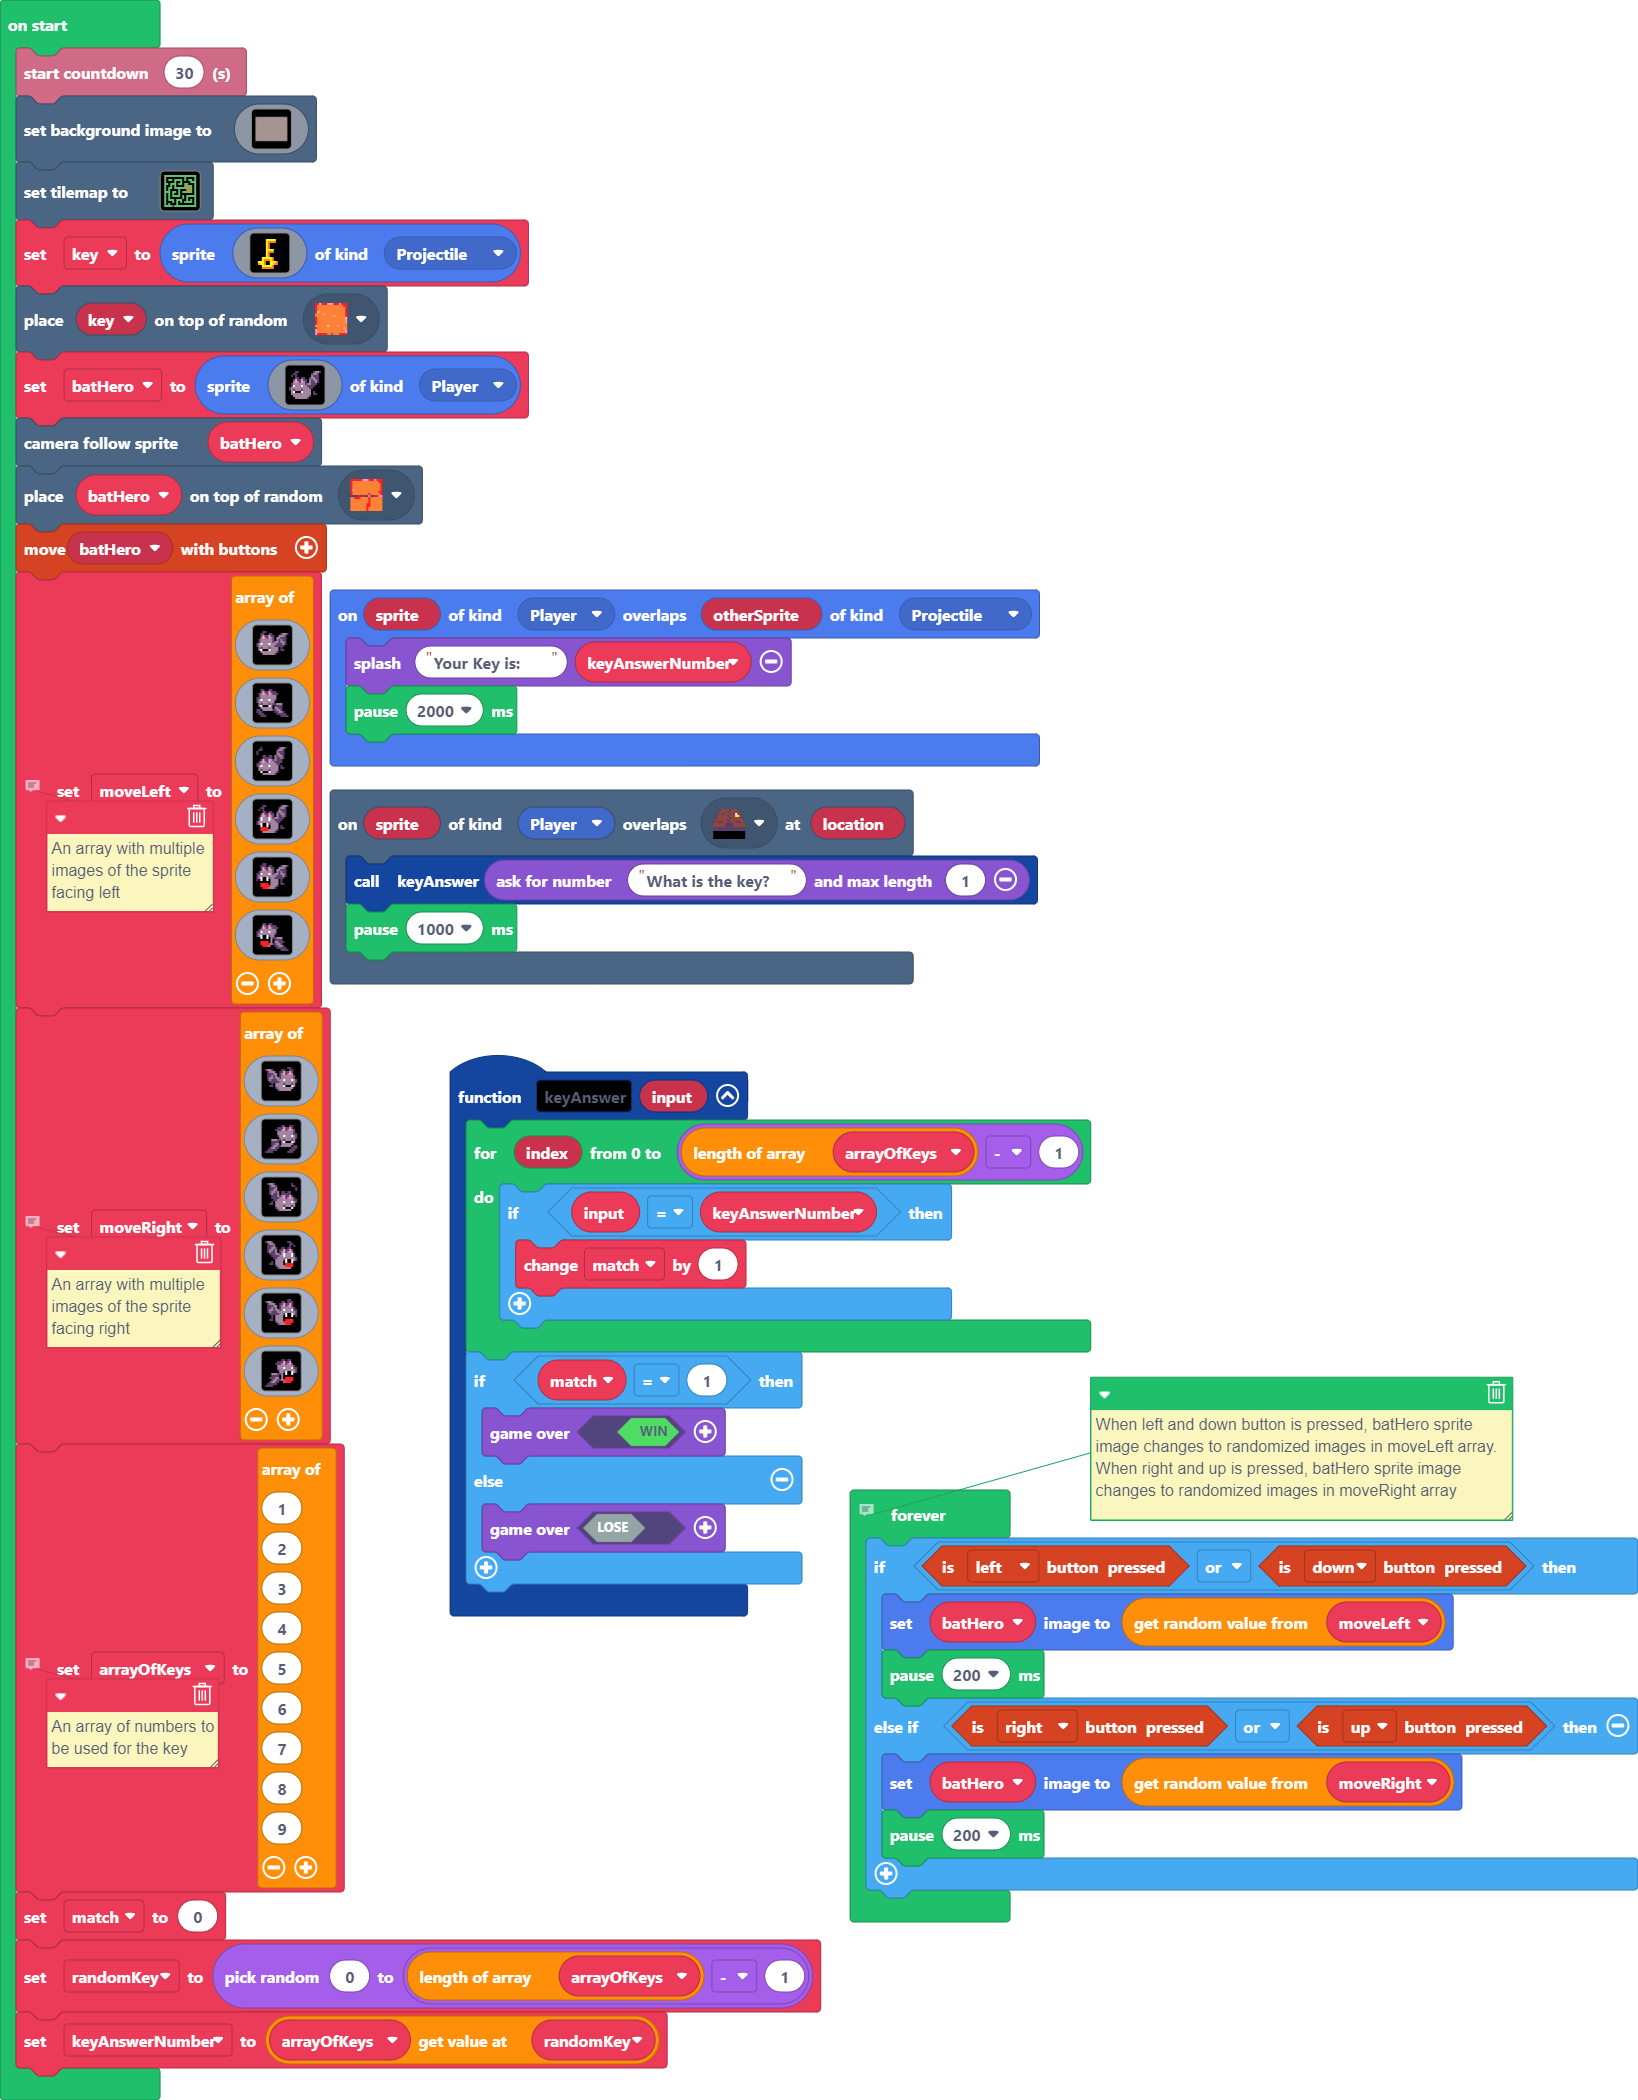
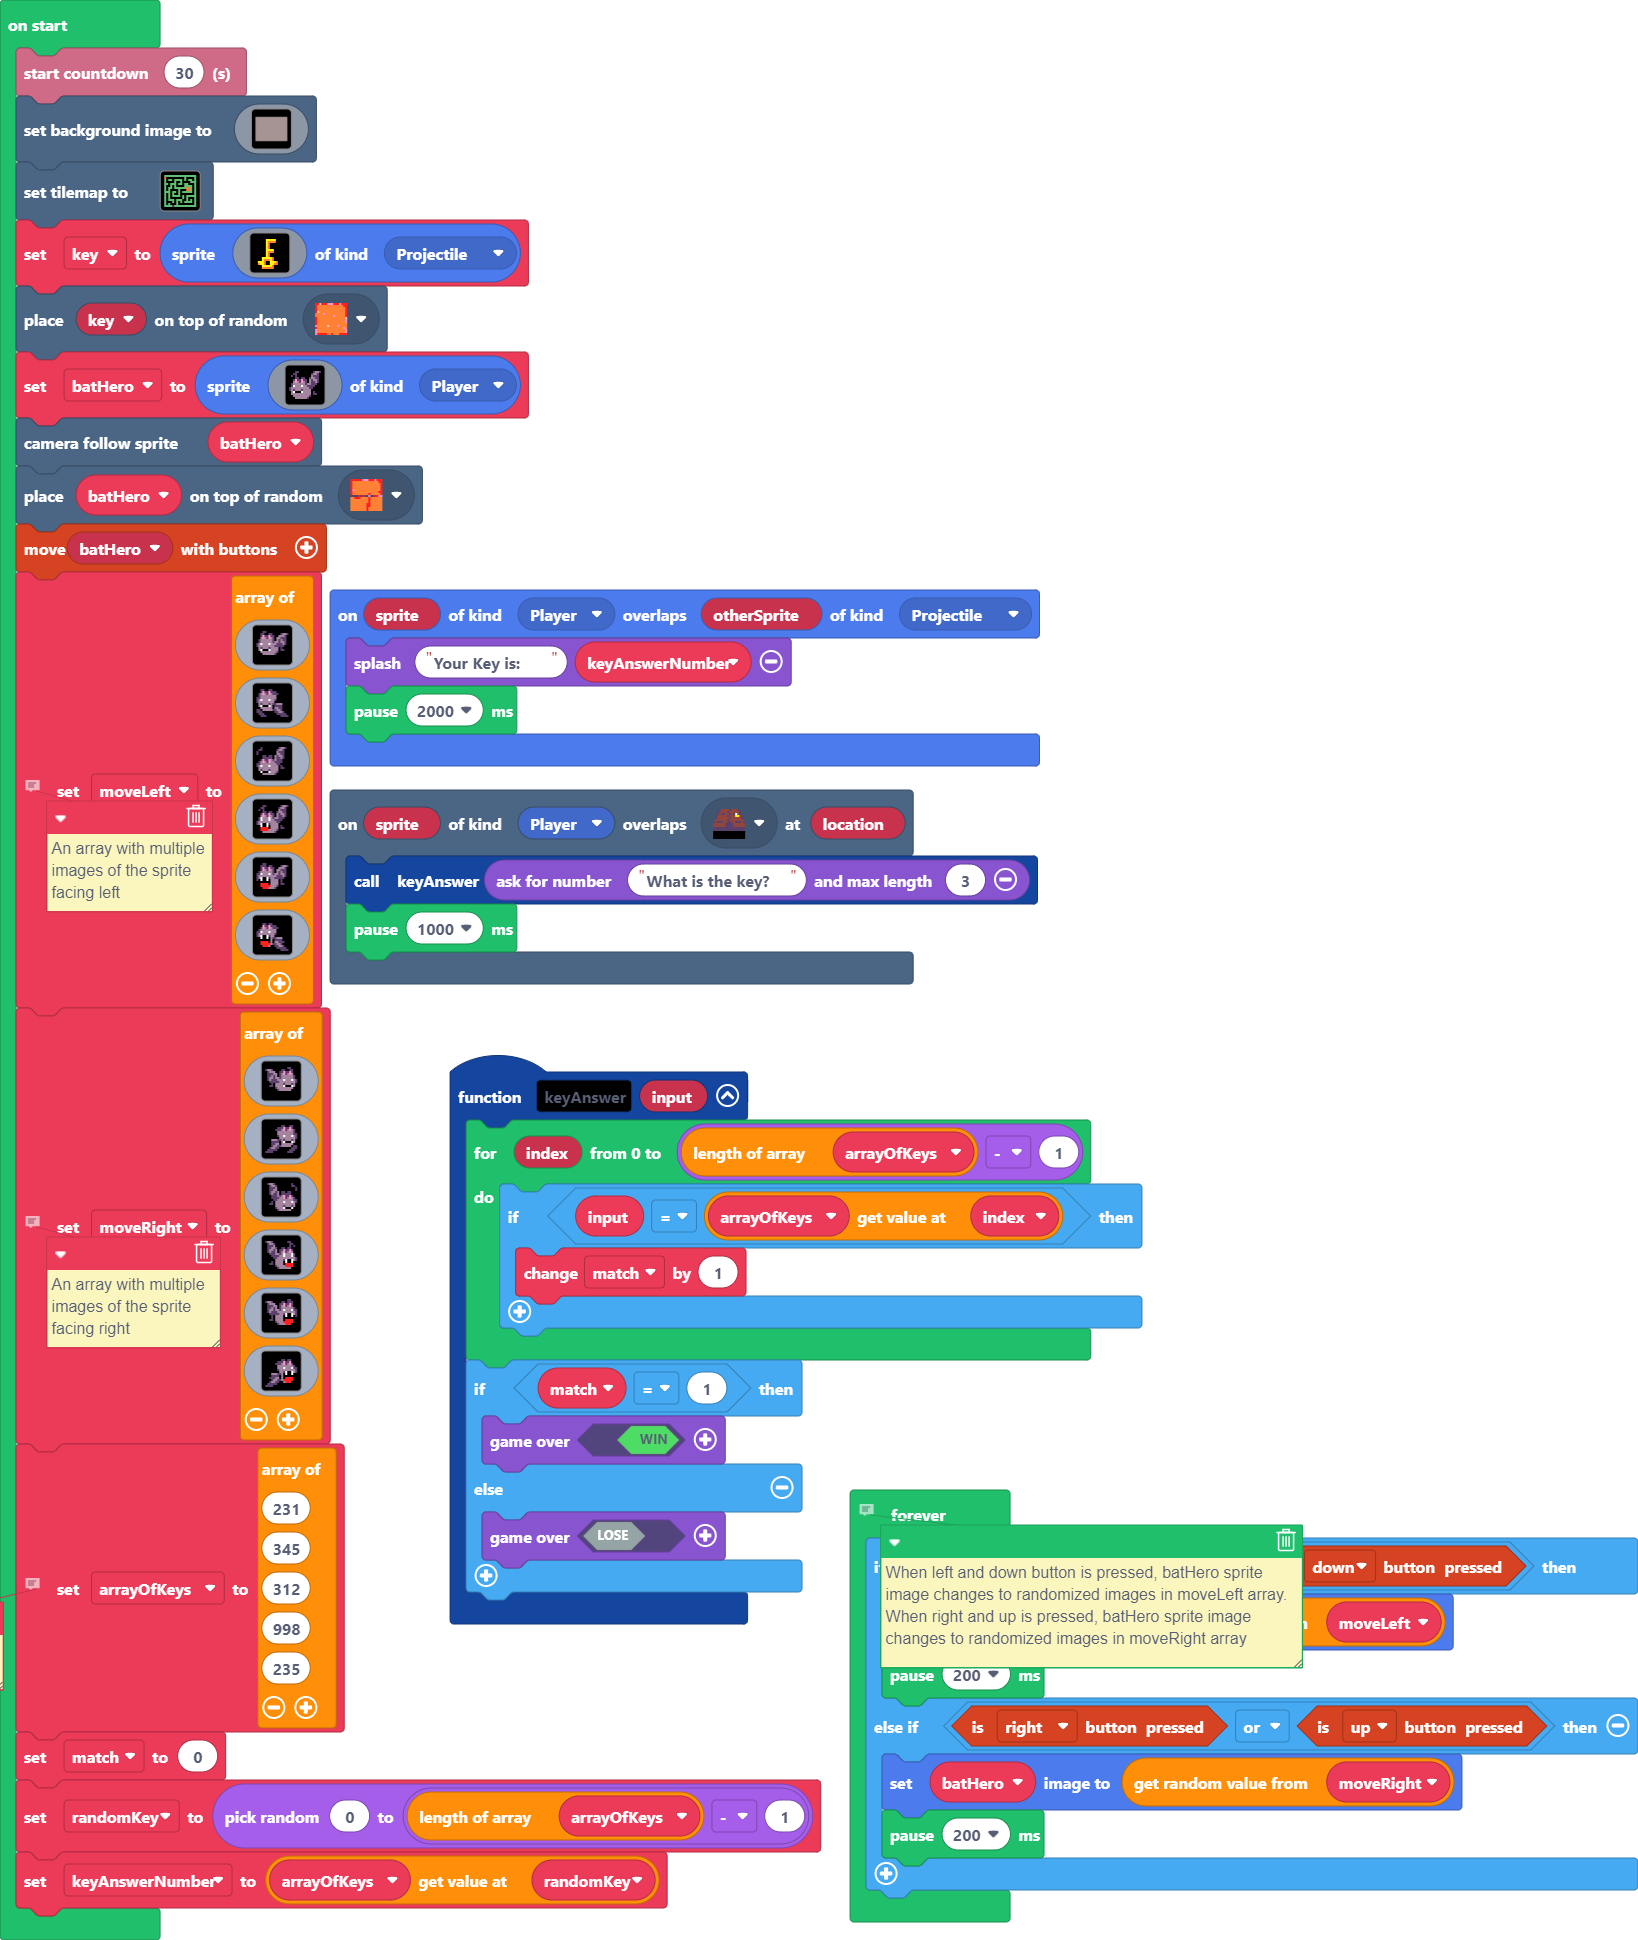
Update main.blocks, main.ts

diff --git a/main.ts b/main.ts
@@ -1,6 +1,6 @@
 function keyAnswer (input2: number) {
     for (let index = 0; index <= arrayOfKeys.length - 1; index++) {
-        if (input2 == keyAnswerNumber) {
+        if (input2 == arrayOfKeys[index]) {
             match += 1
         }
     }
@@ -11,7 +11,7 @@ function keyAnswer (input2: number) {
     }
 }
 scene.onOverlapTile(SpriteKind.Player, assets.tile`myTile7`, function (sprite, location) {
-    keyAnswer(game.askForNumber("What is the key?", 1))
+    keyAnswer(game.askForNumber("What is the key?", 3))
     pause(1000)
 })
 sprites.onOverlap(SpriteKind.Player, SpriteKind.Projectile, function (sprite, otherSprite) {
@@ -409,15 +409,11 @@ img`
 ]
 // An array of numbers to be used for the key
 arrayOfKeys = [
-1,
-2,
-3,
-4,
-5,
-6,
-7,
-8,
-9
+231,
+345,
+312,
+998,
+235
 ]
 match = 0
 let randomKey = randint(0, arrayOfKeys.length - 1)
